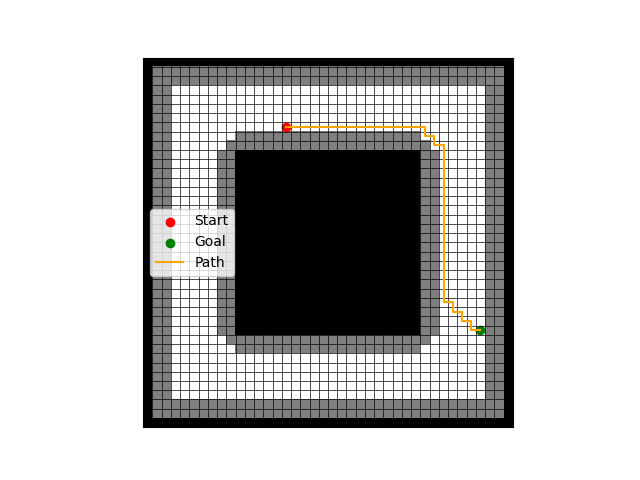
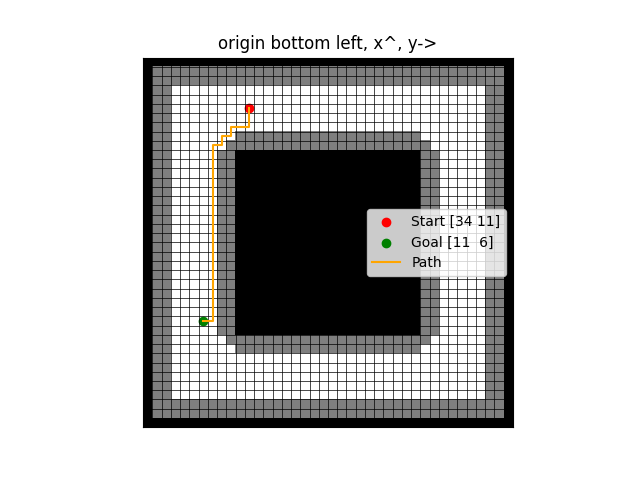
sanity check code

diff --git a/src/main_convex_sanity_check.py b/src/main_convex_sanity_check.py
@@ -105,7 +105,9 @@ class Circle:
     def get_largest_possible_circle(world, x, y):
         # Start at the largest possible circle and work our way down
         reverse_size_list = list(range(world.side_length))[::-1]
-        for radius in tqdm(reverse_size_list, desc=f"Finding largest possible radius for circle centered at ({x}, {y})"):
+        pbar = tqdm(reverse_size_list)
+        for radius in pbar:
+            pbar.set_description(f"Trying radius {radius}")
             circle = Circle(x, y, radius)
             if circle.is_valid(world):
                 return circle
@@ -116,8 +118,10 @@ class Circle:
         # Go through all intertnal points and check if they are free
         for x in range(self.x - self.radius, self.x + self.radius + 1):
             for y in range(self.y - self.radius, self.y + self.radius + 1):
+                # Don't want every point in the square but in the radius
                 if np.linalg.norm([x - self.x, y - self.y]) <= self.radius:
                     if not world.is_free(x, y):
+                        print(f"Point ({x}, {y}) is not free")
                         return False
                     
     def is_point_inside(self, x, y):
@@ -155,8 +159,8 @@ class Plotter:
             plt.axvline(i - 0.5, color="black", linewidth=0.5)
 
         # Plot the start and goal positions
-        plt.scatter(*world.start[::-1], color="red", label="Start")
-        plt.scatter(*world.goal[::-1], color="green", label="Goal")
+        plt.scatter(*world.start[::-1], color="red", label=f"Start {world.start}")
+        plt.scatter(*world.goal[::-1], color="green", label=f"Goal {world.goal}")
         # Plot the path an orange line
         path = np.array(path)
         plt.plot(path[:, 1], path[:, 0], color="orange", label="Path")
@@ -166,6 +170,9 @@ class Plotter:
             circle_plot = plt.Circle((circle.y, circle.x), circle.radius, color="purple", fill=False, label="Circle")
             plt.gca().add_artist(circle_plot)
         plt.legend()
+
+        # Title exaplins the 0,0 bottom left
+        plt.title("origin bottom left, x^, y->")
 
         # Cut it off at the world size
         plt.xlim(-0.5, world.side_length - 0.5)
@@ -182,7 +189,11 @@ class Plotter:
 world = World(side_length=40, middle_obstacle_side_length=20, agent_radius=2)
 path = world.a_star(world.start, world.goal)
 # Create a circle at the start
-circles = [Circle.get_largest_possible_circle(world, *world.start)]
+try:
+    circles = [Circle.get_largest_possible_circle(world, *world.start)]
+except ValueError:
+    print("Start is not valid")
+    circles = []
 # # Get the furthest circle along the path until we contain the goal
 # attempts = 1000
 # for _ in range(attempts):
